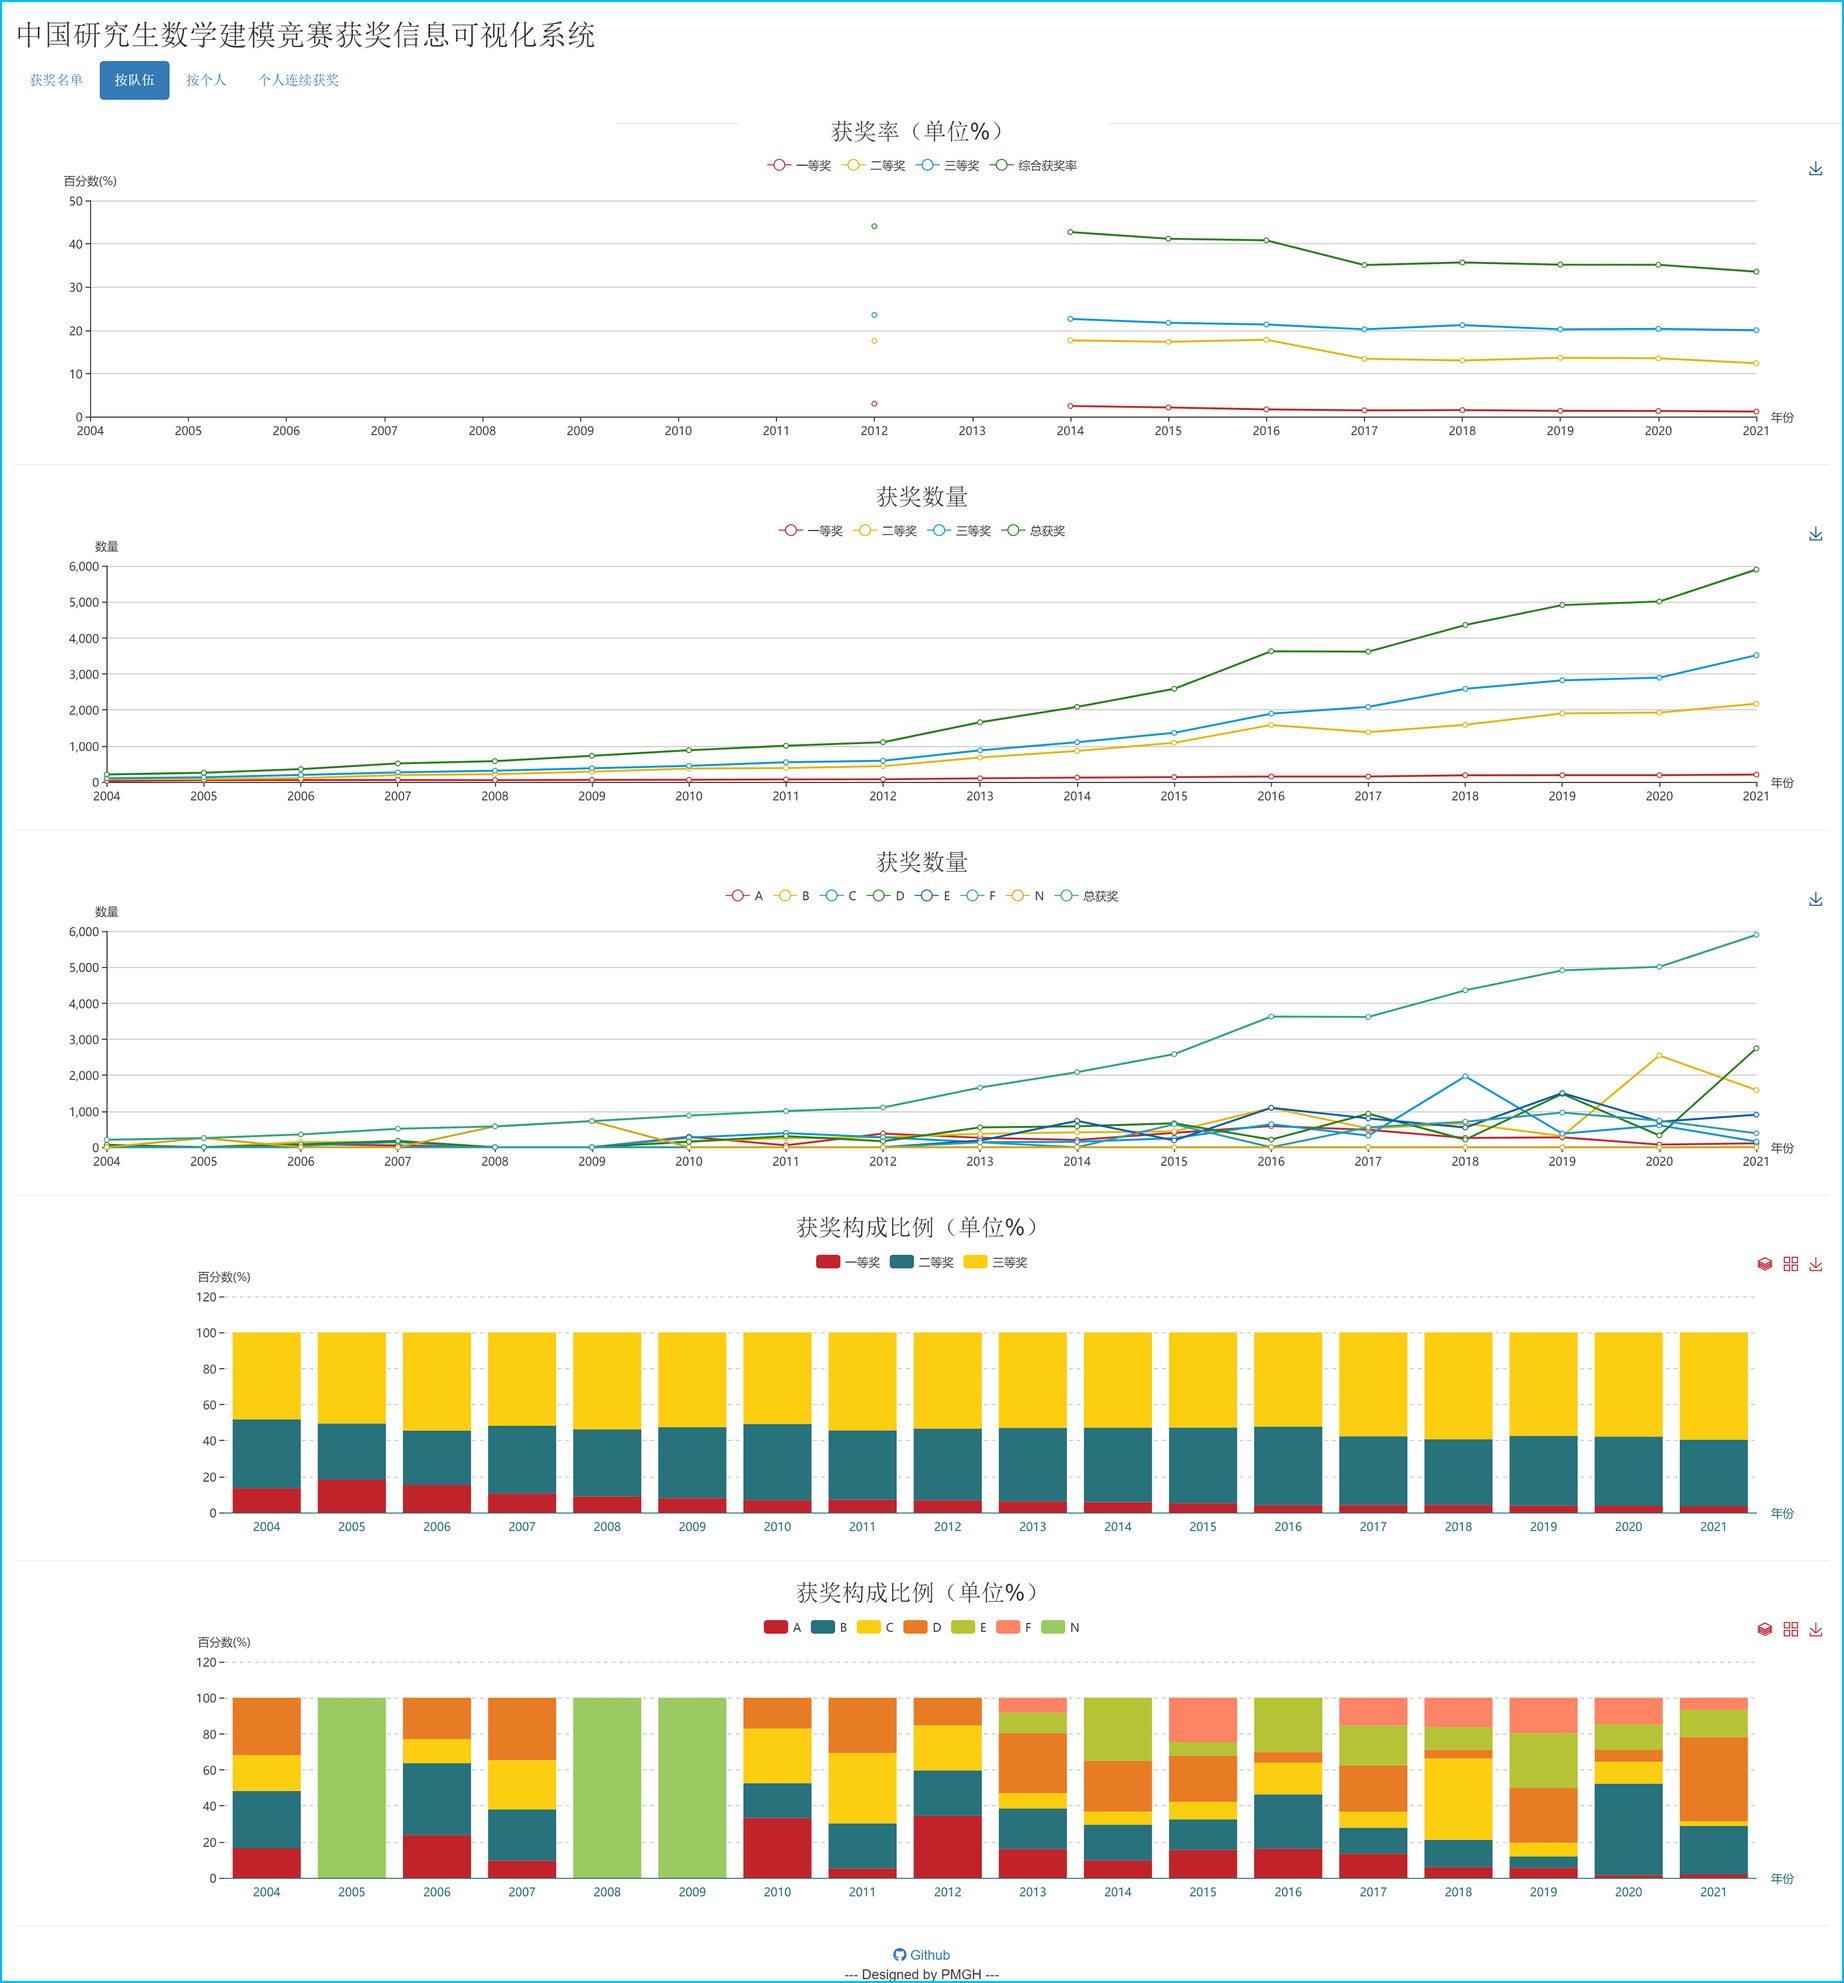
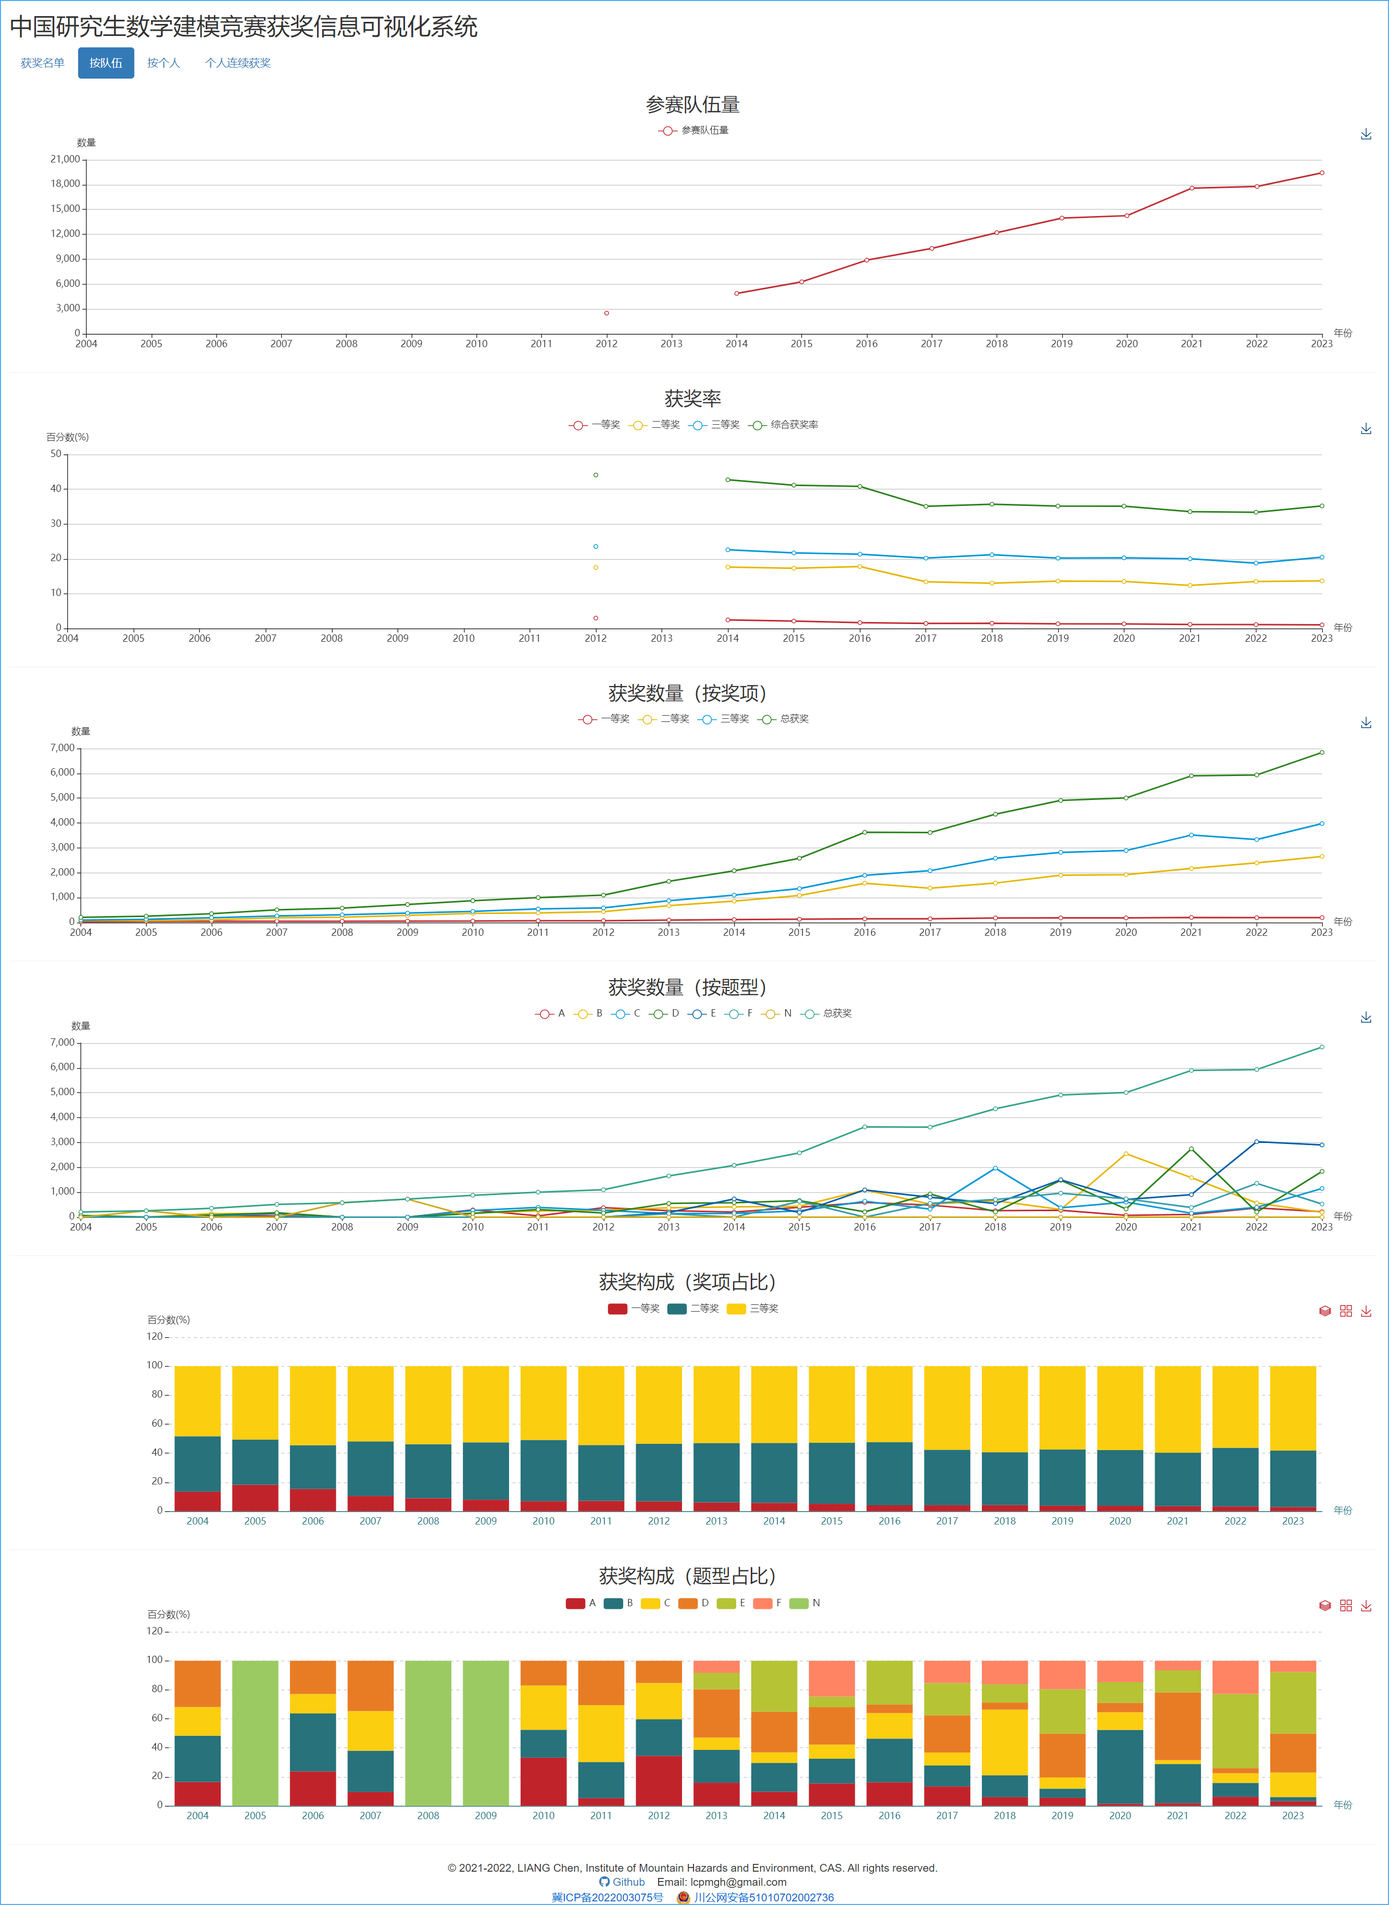
更新了v6.0

diff --git a/Readme.md b/Readme.md
@@ -1,43 +1,43 @@
-# 中国研究生数学建模竞赛获奖数据和可视化分析案例
+# 中国研究生数学建模竞赛获奖数据及可视化分析
 
-本项目收集了2004年（第一届）至今中（全）国研究生数学建模竞赛获奖数据，并基于R语言，进行了数据处理和可视化的工作。
+本项目收集了2004年（第一届）至今中（全）国研究生数学建模竞赛获奖数据，并使用R语言进行了数据处理及可视化工作。
 
-这项工作最初的起因是，作者和队友在2015、2016、2017年参赛并获奖后，好奇一共有多少人连续获奖以及他们来自于哪个省份和学校。于是2017年底，我开始收集数据、敲代码。由于当时正值毕业，也面临着从matlab转出选语言的问题，认准R语言的我便开始使用R来写这部分代码，因此当时那一版惨不忍睹。2018年9月15日，台风山竹正面袭击广州深圳，被迫呆在家里的我，发现正好是当年落户杯开赛的日子，于是我决定把这个项目重写了一遍，并发布到github上。2020开年的新冠肺炎疫情期间，不能去办公室的我，看了Hadley 大神的Advanced R一书，并整合自己2019年所学，开始重新审视自己的编程水平，于是决定再一次修改这个代码，并且决定，以后每年都要来修改一次，以见证每年收获和进步。
+这项工作的起因是，作者和队友在2015、2016、2017年参赛并获奖后，好奇一共有多少人连续获奖以及他们来自于哪个省份和学校。于是2017年底，我开始收集数据、写代码。当时正值毕业，也准备抛弃MATLAB学习一门新的编程语言，认准R语言后，我开始尝试用R写这个项目，所以第一版的东西惨不忍睹。2018年9月15日，台风山竹登陆广州深圳，被迫居家办公后，我发现当日正是一年一度研究生数学建模开赛的日子，因此我决定再把这个项目重写一遍，并发布到github上。2020年初，由于新冠疫情，再一次被迫居家隔离，我学习了Hadley编写的Advanced R一书，回顾自己前一年所学，开始重新审视自己的编程水平，于是决定再一次修改这个代码，并且以后每年都要来改一次，把这个项目延续下去，一是纪念当时和队友参赛的经历，二是记录自己的所学和进步。
 
 关于项目的几个说明：
 
-1. 中国研究生数学建模竞赛（原名全国研究生数学建模竞赛），[官网网址（新）](https://cpipc.acge.org.cn/cw/hp/4)，[官方网址（旧）](http://gmcm.seu.edu.cn/main.htm)，2004年开办，每年9月开赛、11月~12月会公布当年获奖结果，旧网址曾经有历年获奖数据，不过目前404了；
-2. 官方公布的获奖名单，包含一等奖、二等奖、三等奖以及成功参与（参赛、参加）奖，但是基本上参赛、提交并未被认定为作弊就能拿到成功参与奖，所以这里将获奖名单视为参赛名单，其中的一二三等奖视为获奖；
-3. 部分年份获奖名单中无题型信息，则视其题型全部为N；
+1. 中国研究生数学建模竞赛（原名全国研究生数学建模竞赛，<a href="https://cpipc.acge.org.cn/cw/hp/4" target="_blank">官方网址</a>，2004年开办，每年9月开赛、11月~12月会公布当年获奖结果，旧网址曾经有历年获奖数据，不过目前404了；
+2. 官方公布的获奖名单，包含一等奖、二等奖、三等奖以及成功参与（参赛、参加）奖，但是基本上参赛、提交并未被认定为作弊就能拿到成功参与奖，所以这里将获奖名单视为参赛名单，其中的一二三等奖视为获奖（部分年份未公布成功参与奖，因此这些年份无法统计参赛队伍数量和获奖率）；
+3. 部分年份未公布题型信息，因此定义这些年份的题型全部为N；
 4. 对于个人“连续获奖”这个概念，每个版本可能有不同算法，但基本原则是：
    - 鉴于信息有限，只考虑同名、同学校在连续年份的获奖情况为“连续获奖”，即忽略“山大张三在2005年获奖后转学到中大并于2006年获奖”
    - 鉴于信息有限，不区分同名不同人、但同校名的获奖情况，即将“山大张三于2005年获奖然后另一个也叫张三的山大学生于2006年获奖”，视为连续2次获奖 
    - 如果张三于2005年获奖，并于2007、2008年获奖，则将其视为两次连续获奖，第一次为1连，第二次为2连
 5. 其他详细说明见每个版本内的README文件
 
-研究生阶段三年的数模比赛经历，有惊喜也有遗憾，非常感谢我的队友。我只是个水平有限的R语言爱好者，写此项目也是出于对R语言的实践和喜爱，本项目仅限R语言爱好者学习，切勿用于营利或其他违法目的。同时，也欢迎提出问题、讨论和交流。
+研究生三年的数模比赛经历，有惊喜也有遗憾，非常感谢我的队友。本人R语言水平有限，出于爱好编写这些代码，本项目仅限学习使用，切勿用于营利或其他违法目的。同时，也欢迎提出问题、讨论和交流。
 
 最后，希望这个项目对你有所帮助。
 
 ---
 
-## 可视化内容展示（应用已部署：[NPMCM](http://lcpmgh.com/NPMCM)）
+## 可视化内容展示（应用已部署至阿里云：<a href="http://lcpmgh.com/NPMCM" target="_blank">NPMCM</a>）
 
-1. 数据库查询系统
+1. 数据库查询
 
-![shiny_app_page_1](https://raw.githubusercontent.com/lcpmgh/NPMCM/master/v4.0/shiny_preview/shiny_app_page_1.png)
+![shiny_app_page_1](https://raw.githubusercontent.com/lcpmgh/NPMCM/master/v6.0/shiny_preview/shiny_app_page_1.png)
 
-2. 按队伍的获奖统计
+2. 队伍获奖统计
 
-![shiny_app_page_2](https://raw.githubusercontent.com/lcpmgh/NPMCM/master/v4.0/shiny_preview/shiny_app_page_2.png)
+![shiny_app_page_2](https://raw.githubusercontent.com/lcpmgh/NPMCM/master/v6.0/shiny_preview/shiny_app_page_2.png)
 
-3. 按成员的获奖统计
+3. 个人获奖统计
 
-![shiny_app_page_3](https://raw.githubusercontent.com/lcpmgh/NPMCM/master/v4.0/shiny_preview/shiny_app_page_3.png)
+![shiny_app_page_3](https://raw.githubusercontent.com/lcpmgh/NPMCM/master/v6.0/shiny_preview/shiny_app_page_3.png)
 
-4. 连续获奖统计
+4. 个人连续获奖统计
 
-![shiny_app_page_4](https://raw.githubusercontent.com/lcpmgh/NPMCM/master/v4.0/shiny_preview/shiny_app_page_4.png)
+![shiny_app_page_4](https://raw.githubusercontent.com/lcpmgh/NPMCM/master/v6.0/shiny_preview/shiny_app_page_4.png)
 
 ---
 
